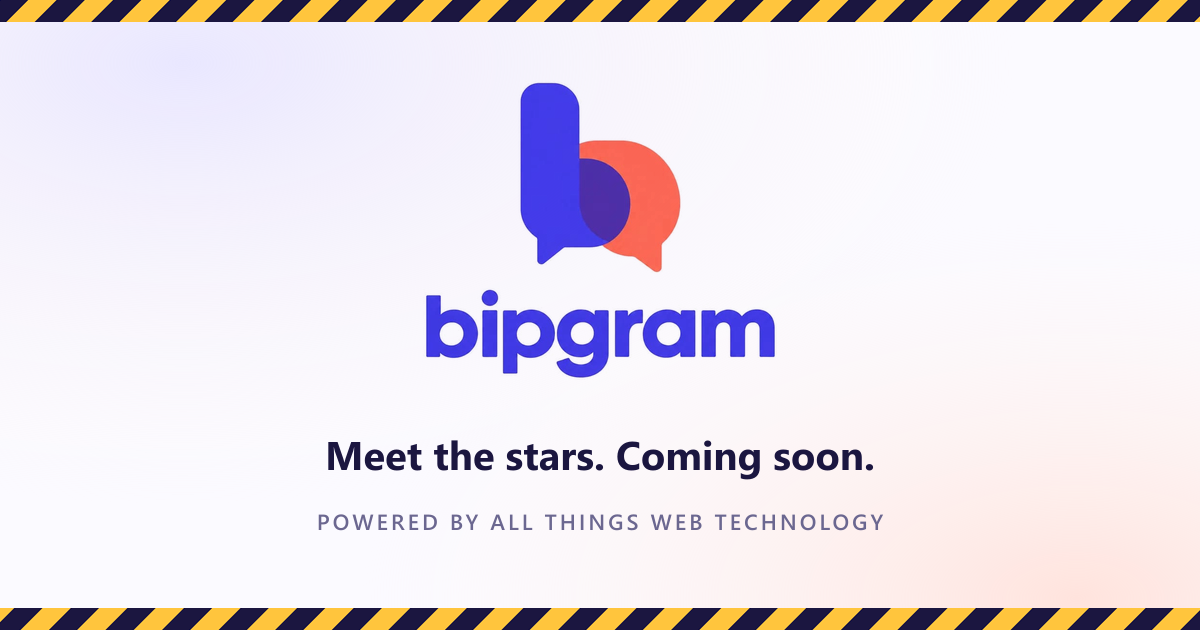
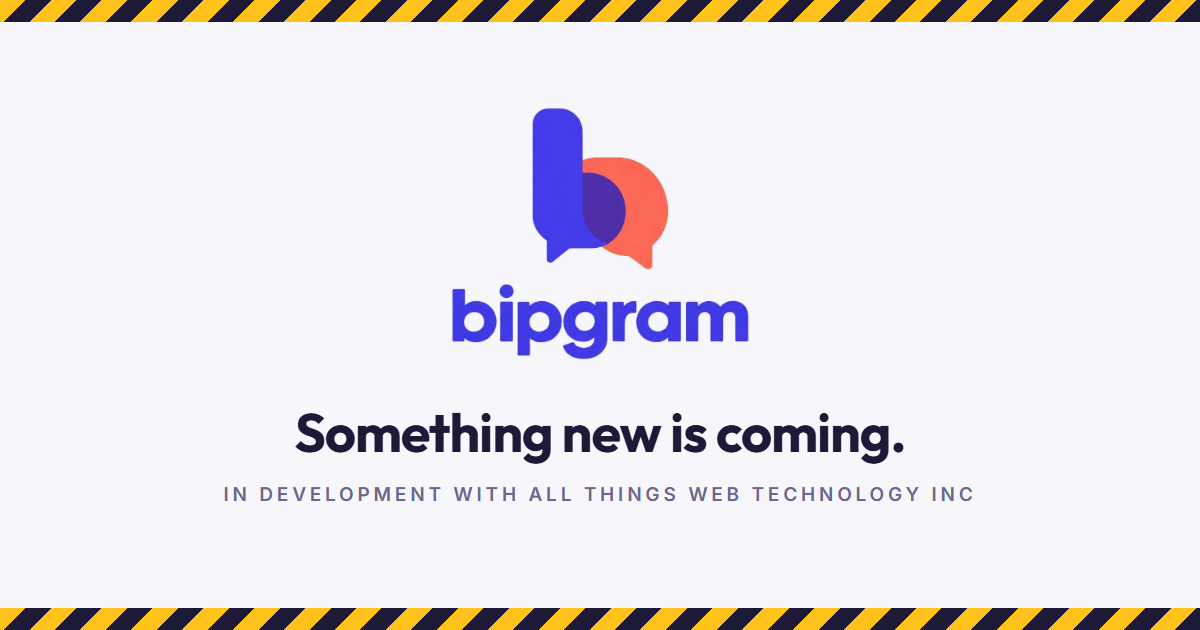
Remove all references to what the product is
Neutral headline and copy, metadata, manifest and share image; scene
loses the themed props; progress messages are generic construction steps.

diff --git a/src/config.ts b/src/config.ts
@@ -63,9 +63,8 @@ const socialCandidates: Array<Omit<SocialLink, 'href'> & { href: string | undefi
 
 export const site = {
   name: 'Bipgram',
-  tagline: 'Meet the stars. Up close.',
-  description:
-    'Bipgram is building the most exclusive way to meet celebrities — verified meet-and-greets, live fan sessions and once-in-a-lifetime moments. Join the waitlist for first access.',
+  tagline: 'Something big is being built.',
+  description: 'Bipgram is under construction. Something new is on the way. Check back soon.',
 
   url: PUBLIC_SITE_URL,
 

diff --git a/README.md b/README.md
@@ -1,6 +1,6 @@
 # Bipgram — Coming Soon
 
-Animated "under construction" landing page for **Bipgram**, the app for meeting celebrities.
+Animated "under construction" landing page for **Bipgram**.
 Built with [Astro](https://astro.build) + TypeScript: static HTML, no framework runtime, tiny inline scripts.
 
 ## Commands
@@ -53,7 +53,7 @@ src/
   layouts/Layout.astro          <head>, SEO / Open Graph, fonts
   pages/index.astro             the page
   components/
-    ConstructionScene.astro     animated SVG site: crane, neon sign, welder, red carpet, flashes
+    ConstructionScene.astro     animated SVG site: crane, neon sign, welder
     Starfield.astro             canvas starfield + shooting stars
     Countdown.astro             split-flap launch countdown (shown first)
     CodingWorker.astro          worker on the countdown: codes, sips coffee, walks; tap to shake
